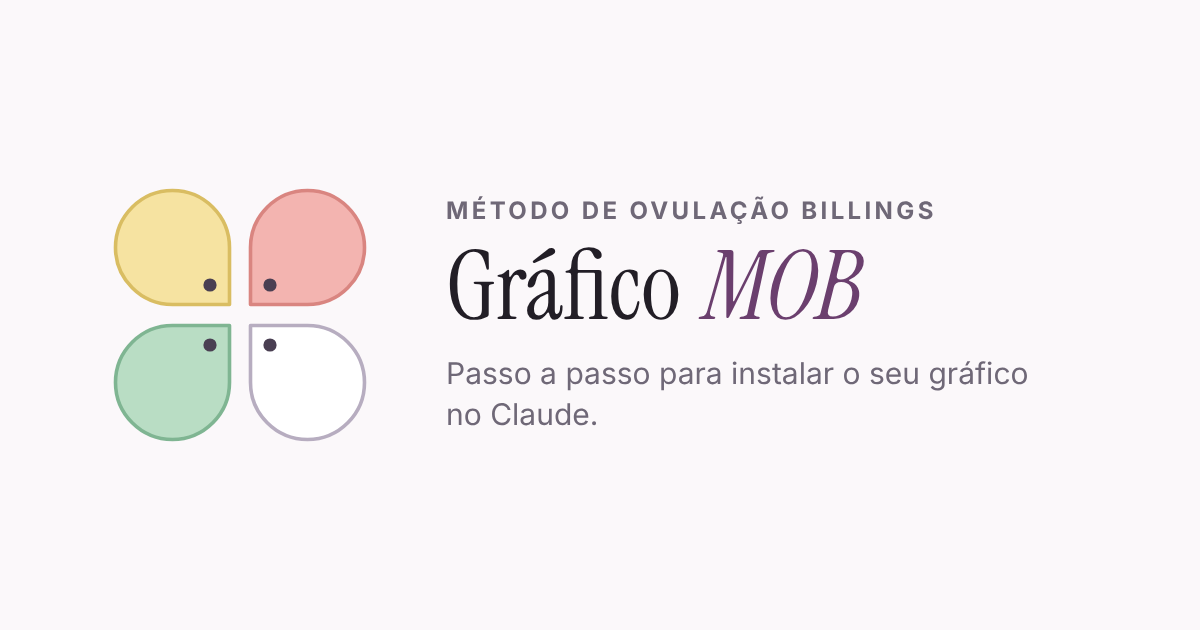
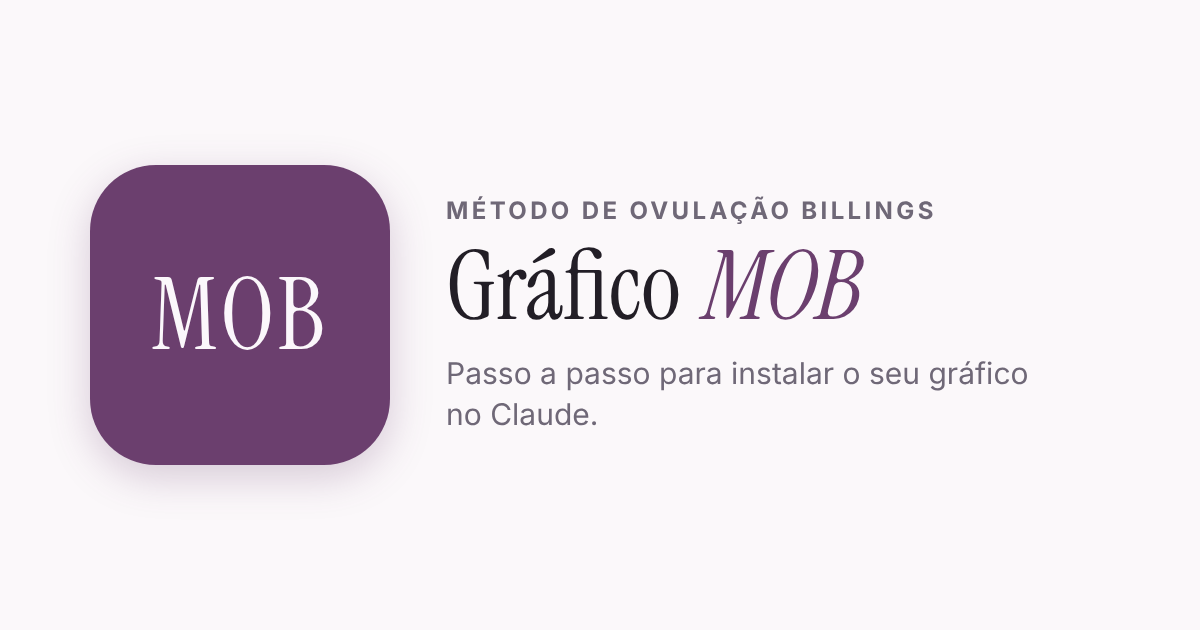
Ícone MOB no site (aba, tela inicial e prévia do link)
Claude-Session: https://claude.ai/code/session_01XJhsN4pHYkNPaE5cixs79T

Changed region(s): [[0.0617, 0.2413, 0.3392, 0.754]]

diff --git a/index.html b/index.html
@@ -68,7 +68,7 @@ details[open] summary::after{content:"–"}
 details .bd{padding:0 16px 14px;font-size:.92rem}
 h3{font-family:var(--f-display);font-weight:400;font-size:1.6rem;margin:34px 0 12px}
 .foot{font-size:.8rem;color:var(--muted);text-align:center;margin-top:30px}
-.hero-logo .logo{width:64px;height:64px;display:block;margin:4px 0 6px}
+.mob-tile{width:64px;height:64px;border-radius:16px;background:#6B3F6E;color:#FBF7FB;font-family:var(--f-display);font-size:21px;letter-spacing:.04em;display:flex;align-items:center;justify-content:center;margin:4px 0 14px;box-shadow:0 4px 14px rgba(107,63,110,.25)}
 .stamps{display:flex;gap:5px;margin:4px 0 2px}
 .stamps span{width:22px;height:22px;border-radius:5px;border:1px solid rgba(0,0,0,.14);display:inline-flex;align-items:center;justify-content:center;font-weight:800;font-size:.8rem}
 :focus-visible{outline:2px solid var(--accent);outline-offset:2px}
@@ -126,23 +126,7 @@ h3{font-family:var(--f-display);font-weight:400;font-size:1.6rem;margin:34px 0 1
 </head>
 <body>
 <div class="wrap">
-  <div class="hero-logo"><svg xmlns="http://www.w3.org/2000/svg" viewBox="0 0 100 100" class="logo" aria-hidden="true">
-  <defs>
-    <path id="mobpetal" d="M46.5 46.5 L27.5 46.5 A19 19 0 1 1 46.5 27.5 L46.5 46.5 Z"/>
-  </defs>
-  <g stroke-width="1.2" stroke-linejoin="round">
-    <use href="#mobpetal" fill="#F6E3A1" stroke="#D9BD62"/>
-    <use href="#mobpetal" fill="#F3B4B0" stroke="#D98580" transform="translate(100 0) scale(-1 1)"/>
-    <use href="#mobpetal" fill="#B9DDC4" stroke="#7FB592" transform="translate(0 100) scale(1 -1)"/>
-    <use href="#mobpetal" fill="#FFFFFF" stroke="#B7ADC0" transform="translate(100 100) scale(-1 -1)"/>
-  </g>
-  <g fill="#4A3F52">
-    <circle cx="40" cy="40" r="2.2"/>
-    <circle cx="60" cy="40" r="2.2"/>
-    <circle cx="40" cy="60" r="2.2"/>
-    <circle cx="60" cy="60" r="2.2"/>
-  </g>
-</svg></div>
+  <div class="hero-logo"><span class="mob-tile" aria-hidden="true">MOB</span></div>
   <div class="eyebrow">Passo a passo · cerca de 10 minutos</div>
   <h1>Como instalar o <i>Gráfico MOB</i> no Claude</h1>
   <p class="lead">Ao final, você terá o seu próprio gráfico do Método Billings dentro do Claude, com os registros salvos na sua conta e visíveis só para você.</p>
